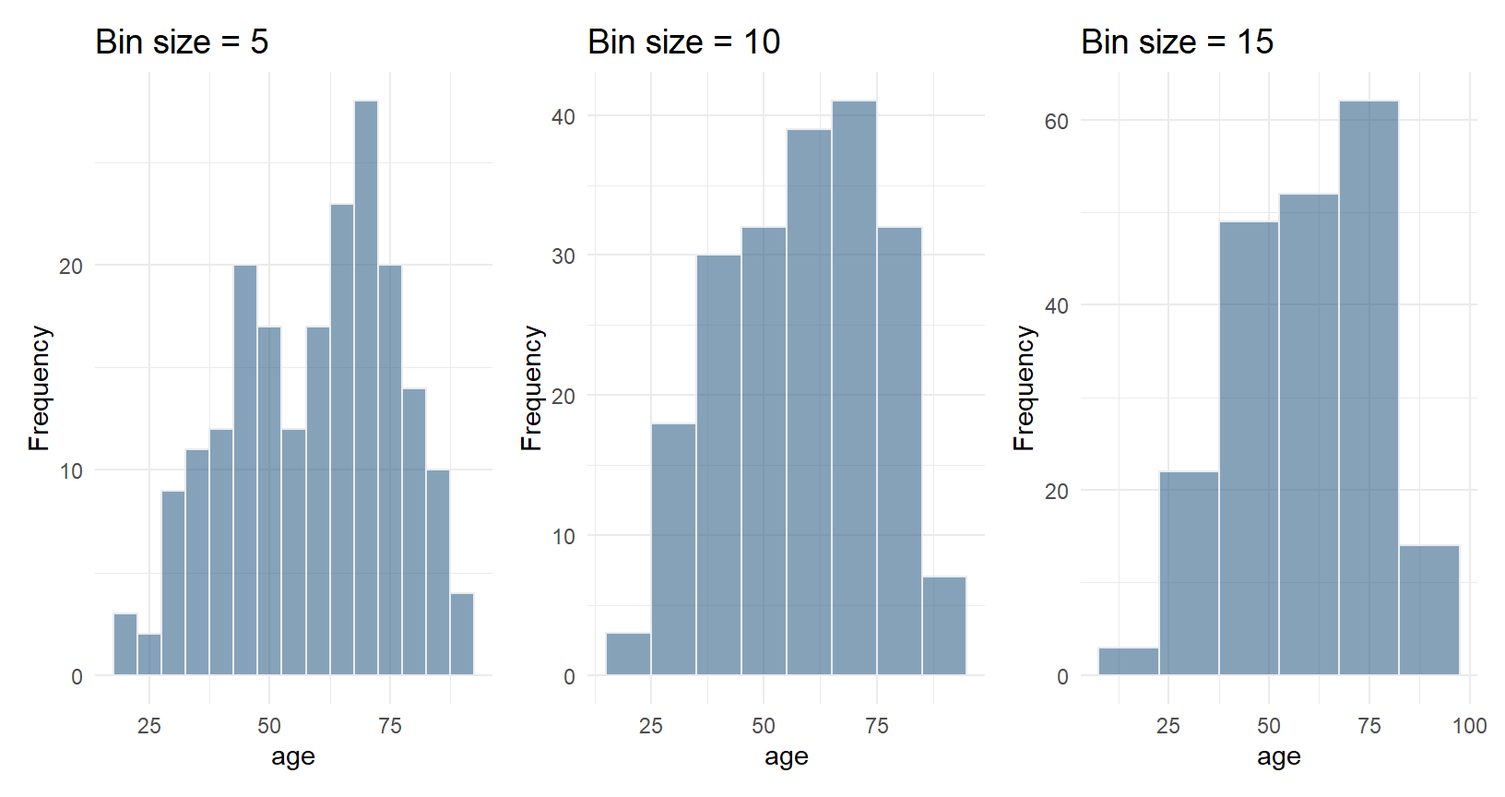
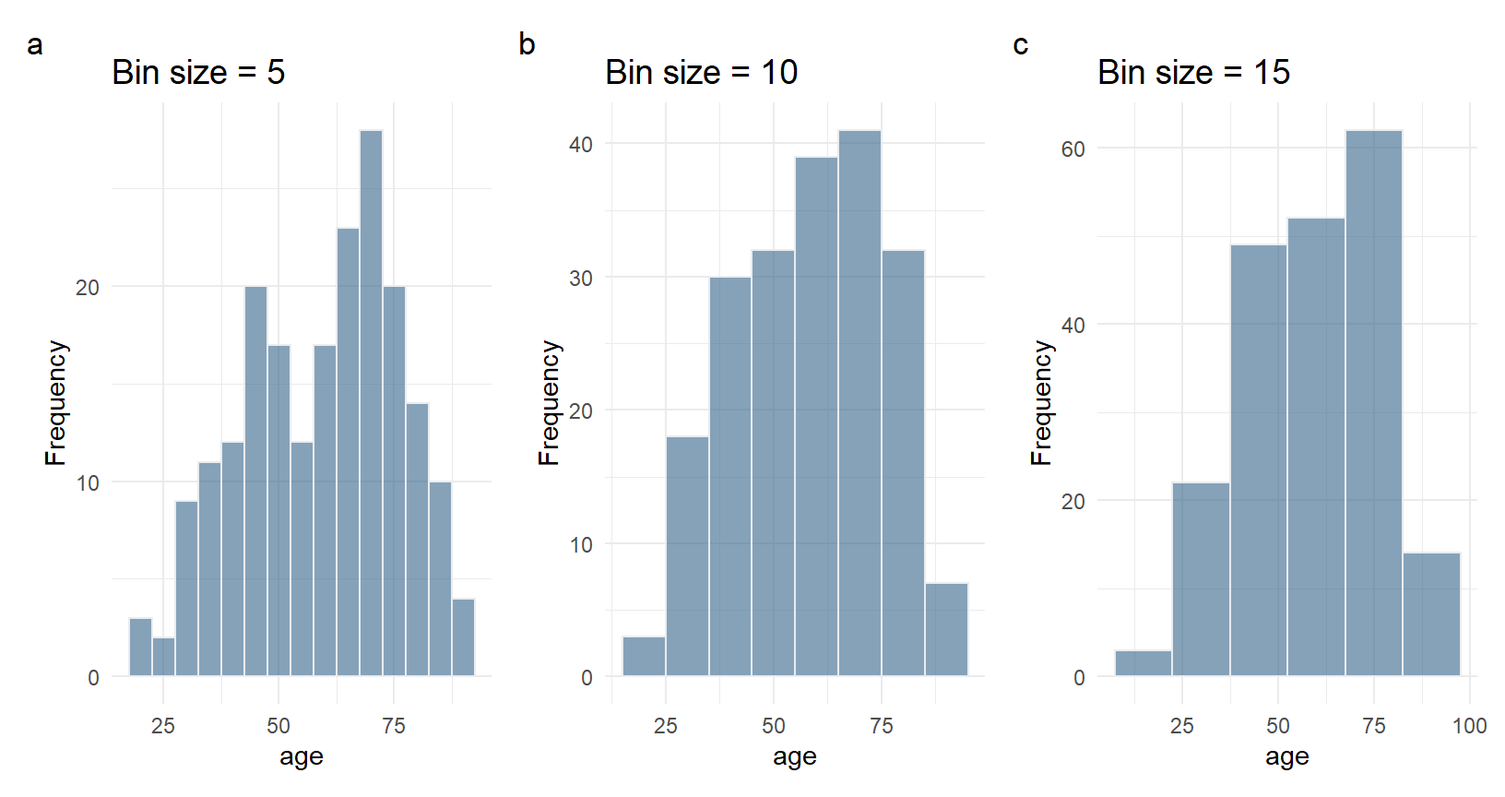
1.7 commit

diff --git a/_book/introduction.html b/_book/introduction.html
@@ -351,8 +351,8 @@ I --&gt; K[New Knowledge] &amp; Dec[Decision<br>Making]
 <div class="cell">
 <div class="cell-output-display">
 
-<div id="htmlwidget-470c648a474a1db97bb0" style="width:100%;height:auto;" class="datatables html-widget"></div>
-<script type="application/json" data-for="htmlwidget-470c648a474a1db97bb0">{"x":{"filter":"none","vertical":false,"extensions":["Scroller"],"data":[["1","2","3","4","5","6","7","8","9","10","11","12","13","14","15","16","17","18","19","20","21","22","23","24","25","26","27","28","29","30","31","32","33","34","35","36","37","38","39","40","41","42","43","44","45","46","47","48","49","50","51","52","53","54","55","56","57","58","59","60","61","62","63","64","65","66","67","68","69","70","71","72","73","74","75","76","77","78","79","80","81","82","83","84","85","86","87","88","89","90","91","92","93","94","95","96","97","98","99","100","101","102","103","104","105","106","107","108","109","110","111","112","113","114","115","116","117","118","119","120","121","122","123","124","125","126","127","128","129","130","131","132","133","134","135","136","137","138","139","140","141","142","143","144","145","146","147","148","149","150","151","152","153","154","155","156","157","158","159","160","161","162","163","164","165","166","167","168","169","170","171","172","173","174","175","176","177","178","179","180","181","182","183","184","185","186","187","188","189","190","191","192","193","194","195","196","197","198","199","200","201","202"],[1,2,3,4,5,6,7,8,9,10,11,12,13,14,15,16,17,18,19,20,21,22,23,24,25,26,27,28,29,30,31,32,33,34,35,36,37,38,39,40,41,42,43,44,45,46,47,48,49,50,51,52,53,54,55,56,57,58,59,60,61,62,63,64,65,66,67,68,69,70,71,72,73,74,75,76,77,78,79,80,81,82,83,84,85,86,87,88,89,90,91,92,93,94,95,96,97,98,99,100,101,102,103,104,105,106,107,108,109,110,111,112,113,114,115,116,117,118,119,120,121,122,123,124,125,126,127,128,129,130,131,132,133,134,135,136,137,138,139,140,141,142,143,144,145,146,147,148,149,150,151,152,153,154,155,156,157,158,159,160,161,162,163,164,165,166,167,168,169,170,171,172,173,174,175,176,177,178,179,180,181,182,183,184,185,186,187,188,189,190,191,192,193,194,195,196,197,198,199,200,201,202],["corn plaster","corn plaster","corn plaster","corn plaster","scalpel","scalpel","scalpel","scalpel","scalpel","scalpel","scalpel","scalpel","scalpel","scalpel","scalpel","scalpel","corn plaster","scalpel","scalpel","scalpel","corn plaster","scalpel","scalpel","scalpel","scalpel","scalpel","corn plaster","corn plaster","scalpel","scalpel","scalpel","scalpel","corn plaster","corn plaster","scalpel","corn plaster","corn plaster","scalpel","corn plaster","scalpel","corn plaster","corn plaster","scalpel","corn plaster","scalpel","scalpel","corn plaster","corn plaster","scalpel","corn plaster","scalpel","scalpel","corn plaster","corn plaster","scalpel","scalpel","corn plaster","scalpel","corn plaster","scalpel","corn plaster","scalpel","scalpel","scalpel","scalpel","corn plaster","scalpel","scalpel","corn plaster","corn plaster","scalpel","corn plaster","corn plaster","corn plaster","corn plaster","scalpel","scalpel","corn plaster","scalpel","scalpel","scalpel","scalpel","scalpel","scalpel","scalpel","corn plaster","corn plaster","corn plaster","scalpel","scalpel","corn plaster","scalpel","corn plaster","scalpel","scalpel","corn plaster","corn plaster","scalpel","corn plaster","corn plaster","scalpel","corn plaster","corn plaster","scalpel","corn plaster","scalpel","scalpel","corn plaster","scalpel","scalpel","corn plaster","scalpel","corn plaster","corn plaster","corn plaster","corn plaster","corn plaster","corn plaster","scalpel","corn plaster","scalpel","corn plaster","corn plaster","scalpel","corn plaster","corn plaster","scalpel","scalpel","corn plaster","corn plaster","corn plaster","corn plaster","corn plaster","scalpel","corn plaster","corn plaster","corn plaster","scalpel","corn plaster","corn plaster","corn plaster","scalpel","corn plaster","scalpel","corn plaster","scalpel","scalpel","corn plaster","corn plaster","corn plaster","corn plaster","scalpel","scalpel","scalpel","scalpel","scalpel","scalpel","scalpel","corn plaster","scalpel","scalpel","scalpel","corn plaster","scalpel","corn plaster","scalpel","corn plaster","corn plaster","scalpel","corn plaster","corn plaster","corn plaster","corn plaster","corn plaster","scalpel","scalpel","corn plaster","corn plaster","corn plaster","corn plaster","corn plaster","scalpel","scalpel","corn plaster","corn plaster","corn plaster","corn plaster","scalpel","scalpel","scalpel","corn plaster","scalpel","corn plaster","corn plaster","scalpel","corn plaster","scalpel","corn plaster","corn plaster","corn plaster","corn plaster","scalpel"],["Central","Huddersfield","Central","Central","Central","Central","Central","Central","Central","Central","Central","Central","Central","Central","Central","Central","Central","Central","Central","Central","Central","Central","Central","Central","Central","Central","Central","Central","Central","Central","Central","Central","Central","Central","Central","Central","Central","Central","Central","Central","Central","Central","Central","Central","Central","Central","Central","Central","Central","Central","Central","Central","Central","Central","Central","Central","Central","Central","Central","Central","Central","Central","Central","Central","First Park","First Park","First Park","First Park","First Park","First Park","First Park","First Park","First Park","First Park","Manor","Manor","Manor","Manor","Manor","Manor","Manor","Manor","Manor","Manor","Manor","Manor","Manor","Manor","Manor","Manor","Manor","Manor","Manor","Jordanthorpe","Jordanthorpe","Jordanthorpe","Jordanthorpe","Jordanthorpe","Jordanthorpe","Jordanthorpe","Jordanthorpe","Jordanthorpe","Jordanthorpe","Jordanthorpe","Darnall","Limbrick","Limbrick","Limbrick","Huddersfield","Huddersfield","Huddersfield","Huddersfield","Huddersfield","Huddersfield","Huddersfield","Central","Central","Central","Central","Central","Central","Central","Central","Central","Central","Central","Central","Central","Central","Central","Central","Central","Central","Central","Central","Central","Central","Central","Central","Central","First Park","Manor","Manor","Manor","Manor","Manor","Manor","Manor","Manor","Manor","Jordanthorpe","Jordanthorpe","Jordanthorpe","Jordanthorpe","Jordanthorpe","Jordanthorpe","Jordanthorpe","Jordanthorpe","Darnall","Limbrick","Limbrick","Limbrick","Limbrick","Limbrick","Darnall","Huddersfield","Central","Central","Central","Central","Central","Central","Central","Central","Central","Central","Central","Central","Central","Central","Central","Central","Central","Central","Central","Central","Central","Manor","Manor","Manor","Manor","Manor","Central","Jordanthorpe","Jordanthorpe","Jordanthorpe","Jordanthorpe","Jordanthorpe","Darnall","Limbrick","Darnall","Darnall"],["female","female","male","female","female","female","female","male","female","male","female","male","male","female","female","male","female","male","female","male","female","male","male","female","male","female","male","female","male","female","male","female","male","female","female","male","male","female","female","female","female","male","male","female","female","male","male","male","female","male","male","male","female","female","female","female","female","female","female","female","female","male","male","female","female","male","female","female","male","male","male","female","female","female","female","female","male","male","female","female","female","male","female","male","female","male","male","female","female","female","male","female","female","male","female","female","male","male","female","female","female","male","female","male","male","female","female","male","male","female","male","female","male","male","female","male","male","male","male","female","male","male","female","male","female","female","male","female","female","female","female","male","male","male","female","male","female","female","female","female","female","female","female","female","male","male","female","female","female","female","female","male","male","male","female","female","male","female","female","female","male","female","female","female","female","female","male","male","female","female","female","male","male","female","female","female","female","female","female","male","female","female","male","male","female","male","female","female","female","male","female","male","female","female","female","female","male","male","male","male","male","male"],[1,null,3,2,1,1,1,1,1,2,1,1,3,1,3,3,3,1,2,null,2,1,3,3,2,3,1,1,2,3,1,1,3,3,3,1,2,3,2,3,2,3,3,1,3,3,1,1,2,2,1,1,3,2,3,1,3,1,3,1,1,3,3,1,3,2,2,1,1,3,1,3,3,1,3,1,2,1,1,3,1,3,1,1,1,null,2,3,1,2,2,1,1,3,1,3,null,3,1,1,2,2,3,1,2,3,3,3,2,1,1,3,1,1,2,3,1,1,3,1,3,1,3,2,1,3,null,2,3,1,1,2,1,3,3,1,3,1,3,3,3,3,1,3,3,3,3,2,1,2,1,3,2,3,1,1,3,1,1,3,2,3,3,3,2,1,3,3,2,1,3,2,3,2,3,3,3,2,3,3,2,3,2,1,1,3,2,3,3,1,3,1,3,3,1,1,1,3,3,3,3,3],[1,null,1,1,1,1,1,1,1,1,1,1,1,1,1,1,1,1,1,1,1,1,1,1,1,1,1,1,1,1,1,1,1,1,1,1,1,1,1,1,1,1,1,1,1,1,1,1,1,1,1,1,1,1,1,1,1,1,1,1,1,1,1,1,1,1,1,1,1,1,1,1,1,1,1,1,1,1,1,1,1,1,1,1,1,1,1,1,1,1,1,1,1,1,1,1,1,1,1,1,1,1,1,1,1,1,1,1,1,1,1,1,1,1,1,2,2,2,2,2,2,2,2,2,2,2,2,2,2,2,2,2,2,2,2,2,2,2,2,2,2,2,2,2,2,2,2,2,2,2,2,2,2,2,2,2,2,2,2,2,2,2,2,2,2,2,3,3,3,3,3,3,3,3,3,3,3,3,3,3,3,3,3,3,3,3,3,3,3,3,3,3,3,3,3,3,3,3,3,3,3,3],[77,32,39,76,69,79,70,64,73,65,33,67,36,77,30,19,66,43,79,50,44,59,63,76,77,60,55,70,80,40,50,78,43,70,44,83,69,66,65,32,90,40,36,69,37,56,53,49,42,74,76,60,69,34,38,49,57,70,45,65,36,42,64,52,65,70,45,51,41,60,65,55,60,61,57,88,69,67,89,81,76,86,69,45,42,20,88,29,84,73,27,63,64,70,83,52,31,60,58,61,77,50,73,53,84,52,68,63,54,27,64,73,46,76,61,62,63,65,65,35,78,71,55,61,71,44,39,78,73,33,61,79,72,29,61,45,35,45,47,32,46,34,86,31,59,55,52,71,70,78,80,32,69,63,52,80,73,86,65,19,74,70,44,46,85,54,40,69,85,49,49,68,44,71,47,40,68,52,42,60,76,49,84,54,70,45,68,65,33,79,68,82,75,49,76,82,68,45,47,49,62,63],[1.100000024,null,5.300000191,7.599999905,1.399999976,4.599999905,9,4.599999905,2.400000095,3.299999952,7,0.699999988,2,1,4,6,1,7.599999905,7.800000191,1.5,3.599999905,0.100000001,5.400000095,8.800000191,8.5,5,1,8.800000191,3.299999952,6.199999809,5,2.5,1.600000024,6,9.800000191,9.5,2,5.400000095,2,7.5,4.5,2.400000095,5,3.200000048,8.5,6,0.400000006,3.299999952,1.399999976,1.5,0,0.100000001,1,5,3.700000048,5.400000095,1.899999976,5.400000095,7.400000095,6.699999809,9.399999619,7,1,4,8,7.900000095,3,6.199999809,0.5,8.5,0,7.599999905,2.5,3.400000095,6.5,2.700000048,8.600000381,8.699999809,4.099999905,7,0.600000024,1.200000048,4.900000095,10,3.799999952,2.400000095,7.400000095,4.5,0,9.100000381,10,4.5,6.599999905,2.400000095,9.5,5,3.400000095,5.199999809,9.600000381,6,4.699999809,7.300000191,7.5,0,4.5,1.200000048,7.199999809,3,0,0,3.099999905,8.899999619,2.5,0.400000006,6.199999809,7.300000191,4.800000191,7.5,2.5,4,2.5,2,5.599999905,6.599999905,5,8,6.599999905,5.199999809,4.599999905,0,4.900000095,4.300000191,4,8.399999619,8,8.5,9.399999619,7.800000191,9.300000191,10,9.899999619,8.899999619,8,9.100000381,8.199999809,5,4.599999905,4.699999809,6.5,8,6,3.099999905,5.699999809,6.699999809,6.800000191,1.5,3,7.5,7,5.5,0,4.699999809,7.199999809,5,3.299999952,1,2.5,9.100000381,4.699999809,6.599999905,6.199999809,3.599999905,7,6,10,9.199999809,10,2,10,6.800000191,2.5,10,7.300000191,2.799999952,4.900000095,9,8.5,6.099999905,8.600000381,6.199999809,8.399999619,8,10,10,1,10,1,9.399999619,8.800000191,9.699999809,6.800000191,4.300000191],[0.796000004,null,0.620000005,0.726999998,0.690999985,1,0.796000004,0.796000004,0.726999998,1,0.796000004,1,1,0.656000018,0.796000004,0.726999998,0.195000023,0.18900004,0.195000023,0.796000004,0.690999985,1,0.620000005,0.264000058,0.726999998,0.796000004,1,0.75999999,0.81400001,0.726999998,0.796000004,0.796000004,0.796000004,0.726999998,0.195000023,0.087999992,0.84800005,0.850000024,1,0.620000005,0.726999998,0.690999985,-0.065999962,0.796000004,0.195000023,0.690999985,0.850000024,0.796000004,0.726999998,1,1,0.726999998,0.796000004,0.796000004,0.796000004,1,1,0.725000024,1,0.796000004,0.157000035,1,0.516000032,0.690999985,0.726999998,0.726999998,0.620000005,0.84800005,0.087999992,0.029999996,0.516000032,0.195000023,0.159000009,0.796000004,0.726999998,0.364000022,0.029999996,0.656000018,0.726999998,0.656000018,0.264000058,0.726999998,0.725000024,-0.040999986,0.690999985,0.796000004,0.620000005,0.796000004,0.84800005,0.725000024,1,0.796000004,1,0.726999998,0.796000004,0.656000018,0.796000004,0.087999992,1,0.690999985,0.656000018,0.087999992,0.796000004,1,0.81400001,0.725000024,-0.016000008,0.587000012,1,1,0.726999998,0.195000023,0.796000004,1,0.796000004,0.726999998,0.690999985,0.796000004,0.796000004,null,1,null,0.620000005,0.690999985,0.487000048,0.690999985,0.796000004,0.725000024,0.690999985,1,0.620000005,0.796000004,1,0.159000009,0.690999985,0.516000032,0.159000009,0.656000018,0.656000018,0.75999999,0.087999992,1,0.850000024,0.620000005,0.690999985,0.796000004,0.796000004,0.796000004,0.796000004,0.796000004,1,0.796000004,0.796000004,0.850000024,0.725000024,0.796000004,1,0.710000038,0.725000024,0.620000005,0.796000004,1,0.656000018,0.620000005,1,0.796000004,0.690999985,0.159000009,0.656000018,0.796000004,0.743000031,0.159000009,0.124000005,0.726999998,-0.077,0.159000009,0.087999992,1,0.087999992,0.796000004,0.796000004,1,0.087999992,0.796000004,1,0.195000023,0.75999999,0.690999985,0.690999985,0.796000004,0.087999992,0.75999999,-0.073999979,0.195000023,0.690999985,0.726999998,1,0.264000058,0.193000048,-0.077,0.690999985,0.850000024],[90,null,51,80,85,45,75,50,98,95,95,85,95,90,88,92,90,55,65,100,65,50,74,95,87,90,100,82,77,60,100,95,95,95,100,79,75,55,99,80,50,100,75,65,85,84,89,75,91,62,98,55,60,90,40,55,100,43,95,86,15,70,61,60,75,50,60,65,75,73,50,45,60,15,65,50,39,40,56,40,null,95,95,0,85,100,90,70,98,88,49,85,98,80,100,85,80,54,99,90,55,60,80,80,80,60,40,75,75,80,71,65,50,85,88,70,76,95,89,95,79,94,80,82,40,80,90,70,96,90,70,95,70,95,89,68,85,50,85,100,50,90,50,61,80,80,90,60,70,80,100,50,90,90,50,85,80,81,92,60,88,75,53,66,79,71,80,90,70,70,85,80,60,83,0,null,85,85,35,80,79,80,51,100,80,65,60,70,95,75,50,70,50,50,60,70,100,100,50,30,44,90],[6,null,6,4,4,2,3,4,1,4,4,3,4,3,2,4,6,4,4,4,4,4,4,6,2,4,4,6,4,4,2,4,6,3,4,6,1,6,4,5,2,4,4,1,4,4,4,3,4,3,4,4,4,3,4,4,2,2,3,2,4,4,4,4,4,1,4,3,4,4,6,4,2,4,4,2,4,6,4,4,6,4,2,4,4,2,4,4,2,4,4,6,5,6,2,2,2,4,3,1,4,2,4,4,1,3,1,4,4,6,6,4,1,4,4,3,3,4,4,4,4,4,4,4,2,4,4,1,4,2,4,4,6,4,4,5,4,4,1,4,4,4,2,4,4,4,4,1,2,4,6,4,2,4,4,4,4,1,4,4,5,4,4,4,4,6,4,4,1,2,4,4,6,4,4,4,4,4,4,4,2,4,4,2,3,2,4,3,4,4,4,5,5,3,4,2,6,4,4,4,4,4],[null,null,5,4,2,3,5,10,5,4,2,2,3,2,5,5,6,4,3,4,3,10,4,1,3,7,6,2,3,2,2,4,2,4,3,3,2,2,4,5,3,3,5,5,4,2,3,4,4,4,3,3,4,2,2,3,2,2,2,2,5,3,4,4,8,3,5,2,3,5,3,5,4,2,5,6,2,5,5,5,2,4,3,4,5,5,4,4,2,3,3,1,2,3,3,8,1,4,2,3,2,5,7,4,6,2,3,2,2,2,4,5,2,3,6,5,6,5,6,3,3,3,5,3,6,2,3,3,3,2,3,2,4,4,4,4,3,3,3,4,2,4,3,5,3,5,5,3,5,1,3,5,8,5,3,5,1,3,4,9,4,4,4,8,10,1,5,4,4,10,4,3,3,5,4,4,5,3,4,2,3,3,3,7,3,5,2,4,5,3,5,5,4,6,2,2,2,4,6,3,5,8],[2,null,5,0,1,2,0,10,0,4,2,0,4,1,4,5,0,4,3,4,1,10,2,1,3,6,0,2,3,2,2,2,0,4,3,2,0,2,0,3,null,1,null,0,4,2,null,2,0,0,0,0,2,null,0,3,0,null,2,1,4,null,3,4,8,1,1,0,0,2,3,3,0,0,4,6,0,4,null,3,2,3,0,4,5,0,2,4,1,2,2,0,1,2,3,4,0,0,0,null,0,2,0,1,3,0,3,1,null,null,4,5,0,null,5,3,2,2,6,0,0,0,4,0,null,2,3,3,2,null,0,0,2,null,2,1,1,2,2,2,2,4,2,3,1,6,null,0,0,2,1,0,4,4,1,5,1,3,2,null,3,2,3,5,0,null,0,3,3,3,4,3,0,3,3,3,0,3,3,0,0,1,2,null,0,null,1,4,5,0,2,0,5,5,1,1,0,4,5,3,4,10],[null,null,0,-4,-1,-1,-5,0,-5,0,0,-2,1,-1,-1,0,-6,0,0,0,-2,0,-2,0,0,-1,-6,0,0,0,0,-2,-2,0,0,-1,-2,0,-4,-2,null,-2,null,-5,0,0,null,-2,-4,-4,-3,-3,-2,null,-2,0,-2,null,0,-1,-1,null,-1,0,0,-2,-4,-2,-3,-3,0,-2,-4,-2,-1,0,-2,-1,null,-2,0,-1,-3,0,0,-5,-2,0,-1,-1,-1,-1,-1,-1,0,-4,-1,-4,-2,null,-2,-3,-7,-3,-3,-2,0,-1,null,null,0,0,-2,null,-1,-2,-4,-3,0,-3,-3,-3,-1,-3,null,0,0,0,-1,null,-3,-2,-2,null,-2,-3,-2,-1,-1,-2,0,0,-1,-2,-2,1,null,-3,-5,1,-2,-5,-4,-1,-2,0,0,0,-2,null,-1,-2,-1,-3,-10,null,-5,-1,-1,-7,0,0,-3,-2,-1,-1,-5,0,-1,-2,-3,-2,-1,null,-3,null,-1,0,0,-3,-3,-5,1,-1,-1,-1,-2,0,-1,0,-1,2],[0,null,0,1,0,0,1,0,1,0,0,1,0,0,0,0,1,0,0,0,0,0,0,0,0,0,1,0,0,0,0,0,1,0,0,0,1,0,1,0,null,0,null,1,0,0,null,0,1,1,1,1,0,null,1,0,1,null,0,0,0,null,0,0,0,0,0,1,1,0,0,0,1,1,0,0,1,0,null,0,0,0,1,0,0,1,0,0,0,0,0,1,0,0,0,0,1,1,1,null,1,0,1,0,0,1,0,0,null,null,0,0,1,null,0,0,0,0,0,1,1,1,0,1,null,0,0,0,0,null,1,1,0,null,0,0,0,0,0,0,0,0,0,0,0,0,null,1,1,0,0,1,0,0,0,0,0,0,0,null,0,0,0,0,1,null,1,0,0,0,0,0,1,0,0,0,1,0,0,1,1,0,0,null,1,null,0,0,0,1,0,1,0,0,0,0,1,0,0,0,0,0],[2,null,5,0,1,2,0,10,0,4,2,0,4,1,4,5,0,4,3,4,1,10,2,1,3,6,0,2,3,2,2,2,0,4,3,2,0,2,0,3,null,1,null,0,4,2,2,2,0,0,0,0,2,null,0,3,0,null,2,1,4,null,3,4,8,1,1,0,0,2,3,3,0,0,4,6,0,4,null,3,2,3,0,4,5,0,2,4,1,2,2,0,1,2,3,4,0,0,0,null,0,2,0,1,3,0,3,1,1,3,4,5,0,0,5,3,2,2,6,0,0,0,4,0,0,2,3,3,2,null,0,0,2,null,2,1,1,2,2,2,2,4,2,3,1,6,null,0,0,2,1,0,4,4,1,5,1,3,2,7,3,2,3,5,0,null,0,3,3,3,4,3,0,3,3,3,0,3,3,0,0,1,2,3,0,null,1,4,5,0,2,0,5,5,1,1,0,4,5,3,4,10],[null,null,0,-4,-1,-1,-5,0,-5,0,0,-2,1,-1,-1,0,-6,0,0,0,-2,0,-2,0,0,-1,-6,0,0,0,0,-2,-2,0,0,-1,-2,0,-4,-2,null,-2,null,-5,0,0,-1,-2,-4,-4,-3,-3,-2,null,-2,0,-2,null,0,-1,-1,null,-1,0,0,-2,-4,-2,-3,-3,0,-2,-4,-2,-1,0,-2,-1,null,-2,0,-1,-3,0,0,-5,-2,0,-1,-1,-1,-1,-1,-1,0,-4,-1,-4,-2,null,-2,-3,-7,-3,-3,-2,0,-1,-1,1,0,0,-2,-3,-1,-2,-4,-3,0,-3,-3,-3,-1,-3,-6,0,0,0,-1,null,-3,-2,-2,null,-2,-3,-2,-1,-1,-2,0,0,-1,-2,-2,1,null,-3,-5,1,-2,-5,-4,-1,-2,0,0,0,-2,-2,-1,-2,-1,-3,-10,null,-5,-1,-1,-7,0,0,-3,-2,-1,-1,-5,0,-1,-2,-3,-2,-1,-4,-3,null,-1,0,0,-3,-3,-5,1,-1,-1,-1,-2,0,-1,0,-1,2],[0,null,0,1,1,1,1,0,1,0,0,1,0,1,1,0,1,0,0,0,1,0,1,0,0,1,1,0,0,0,0,1,1,0,0,1,1,0,1,1,null,1,null,1,0,0,1,1,1,1,1,1,1,null,1,0,1,null,0,1,1,null,1,0,0,1,1,1,1,1,0,1,1,1,1,0,1,1,null,1,0,1,1,0,0,1,1,0,1,1,1,1,1,1,0,1,1,1,1,null,1,1,1,1,1,1,0,1,1,0,0,0,1,1,1,1,1,1,0,1,1,1,1,1,1,0,0,0,1,null,1,1,1,null,1,1,1,1,1,1,0,0,1,1,1,0,null,1,1,0,1,1,1,1,1,0,0,0,1,1,1,1,1,1,1,null,1,1,1,1,0,0,1,1,1,1,1,0,1,1,1,1,1,1,1,null,1,0,0,1,1,1,0,1,1,1,1,0,1,0,1,0],[1,0,1,1,1,1,1,1,1,1,1,1,1,1,1,1,1,1,1,1,1,1,1,1,1,1,1,1,1,1,1,1,1,1,1,1,1,1,1,1,0,1,0,1,1,1,1,1,1,1,1,1,1,0,1,1,1,0,1,1,1,0,1,1,1,1,1,1,1,1,1,1,1,1,1,1,1,1,0,1,1,1,1,1,1,1,1,1,1,1,1,1,1,1,1,1,1,1,1,0,1,1,1,1,1,1,1,1,1,1,1,1,1,1,1,1,1,1,1,1,1,1,1,1,1,1,1,1,1,0,1,1,1,0,1,1,1,1,1,1,1,1,1,1,1,1,0,1,1,1,1,1,1,1,1,1,1,1,1,1,1,1,1,1,1,0,1,1,1,1,1,1,1,1,1,1,1,1,1,1,1,1,1,1,1,0,1,1,1,1,1,1,1,1,1,1,1,1,1,1,1,1],[0,null,0,1,0,0,1,0,1,0,0,1,0,0,0,0,1,0,0,0,0,0,0,0,0,0,1,0,0,0,0,0,1,0,0,0,1,0,1,0,null,0,null,1,0,0,0,0,1,1,1,1,0,null,1,0,1,null,0,0,0,null,0,0,0,0,0,1,1,0,0,0,1,1,0,0,1,0,null,0,0,0,1,0,0,1,0,0,0,0,0,1,0,0,0,0,1,1,1,null,1,0,1,0,0,1,0,0,0,0,0,0,1,1,0,0,0,0,0,1,1,1,0,1,1,0,0,0,0,null,1,1,0,null,0,0,0,0,0,0,0,0,0,0,0,0,null,1,1,0,0,1,0,0,0,0,0,0,0,0,0,0,0,0,1,null,1,0,0,0,0,0,1,0,0,0,1,0,0,1,1,0,0,0,1,null,0,0,0,1,0,1,0,0,0,0,1,0,0,0,0,0]],"container":"<table class=\"display\">\n  <thead>\n    <tr>\n      <th> <\/th>\n      <th>id<\/th>\n      <th>group<\/th>\n      <th>center<\/th>\n      <th>gender<\/th>\n      <th>smoking_history<\/th>\n      <th>no_of_corns<\/th>\n      <th>age<\/th>\n      <th>pain_baseline<\/th>\n      <th>eq5d_baseline<\/th>\n      <th>eq5d_VAS_baseline<\/th>\n      <th>index_corn_site<\/th>\n      <th>cornsize_base<\/th>\n      <th>cornsize_3<\/th>\n      <th>cornsize_change<\/th>\n      <th>cornresolved<\/th>\n      <th>cornsize_imp3<\/th>\n      <th>cornsize_change_imp<\/th>\n      <th>healed<\/th>\n      <th>healedknown<\/th>\n      <th>complete_healed<\/th>\n    <\/tr>\n  <\/thead>\n<\/table>","options":{"deferRender":false,"dom":"t","columnDefs":[{"className":"dt-center","targets":5},{"className":"dt-right","targets":[1,6,7,8,9,10,11,12,13,14,15,16,17,18,19,20]},{"orderable":false,"targets":0}],"scrollY":202,"scroller":true,"scrollX":true,"pageLength":5,"order":[],"autoWidth":false,"orderClasses":false,"lengthMenu":[5,10,25,50,100]}},"evals":[],"jsHooks":[]}</script>
+<div id="htmlwidget-b87085f6906b84404f02" style="width:100%;height:auto;" class="datatables html-widget"></div>
+<script type="application/json" data-for="htmlwidget-b87085f6906b84404f02">{"x":{"filter":"none","vertical":false,"extensions":["Scroller"],"data":[["1","2","3","4","5","6","7","8","9","10","11","12","13","14","15","16","17","18","19","20","21","22","23","24","25","26","27","28","29","30","31","32","33","34","35","36","37","38","39","40","41","42","43","44","45","46","47","48","49","50","51","52","53","54","55","56","57","58","59","60","61","62","63","64","65","66","67","68","69","70","71","72","73","74","75","76","77","78","79","80","81","82","83","84","85","86","87","88","89","90","91","92","93","94","95","96","97","98","99","100","101","102","103","104","105","106","107","108","109","110","111","112","113","114","115","116","117","118","119","120","121","122","123","124","125","126","127","128","129","130","131","132","133","134","135","136","137","138","139","140","141","142","143","144","145","146","147","148","149","150","151","152","153","154","155","156","157","158","159","160","161","162","163","164","165","166","167","168","169","170","171","172","173","174","175","176","177","178","179","180","181","182","183","184","185","186","187","188","189","190","191","192","193","194","195","196","197","198","199","200","201","202"],[1,2,3,4,5,6,7,8,9,10,11,12,13,14,15,16,17,18,19,20,21,22,23,24,25,26,27,28,29,30,31,32,33,34,35,36,37,38,39,40,41,42,43,44,45,46,47,48,49,50,51,52,53,54,55,56,57,58,59,60,61,62,63,64,65,66,67,68,69,70,71,72,73,74,75,76,77,78,79,80,81,82,83,84,85,86,87,88,89,90,91,92,93,94,95,96,97,98,99,100,101,102,103,104,105,106,107,108,109,110,111,112,113,114,115,116,117,118,119,120,121,122,123,124,125,126,127,128,129,130,131,132,133,134,135,136,137,138,139,140,141,142,143,144,145,146,147,148,149,150,151,152,153,154,155,156,157,158,159,160,161,162,163,164,165,166,167,168,169,170,171,172,173,174,175,176,177,178,179,180,181,182,183,184,185,186,187,188,189,190,191,192,193,194,195,196,197,198,199,200,201,202],["corn plaster","corn plaster","corn plaster","corn plaster","scalpel","scalpel","scalpel","scalpel","scalpel","scalpel","scalpel","scalpel","scalpel","scalpel","scalpel","scalpel","corn plaster","scalpel","scalpel","scalpel","corn plaster","scalpel","scalpel","scalpel","scalpel","scalpel","corn plaster","corn plaster","scalpel","scalpel","scalpel","scalpel","corn plaster","corn plaster","scalpel","corn plaster","corn plaster","scalpel","corn plaster","scalpel","corn plaster","corn plaster","scalpel","corn plaster","scalpel","scalpel","corn plaster","corn plaster","scalpel","corn plaster","scalpel","scalpel","corn plaster","corn plaster","scalpel","scalpel","corn plaster","scalpel","corn plaster","scalpel","corn plaster","scalpel","scalpel","scalpel","scalpel","corn plaster","scalpel","scalpel","corn plaster","corn plaster","scalpel","corn plaster","corn plaster","corn plaster","corn plaster","scalpel","scalpel","corn plaster","scalpel","scalpel","scalpel","scalpel","scalpel","scalpel","scalpel","corn plaster","corn plaster","corn plaster","scalpel","scalpel","corn plaster","scalpel","corn plaster","scalpel","scalpel","corn plaster","corn plaster","scalpel","corn plaster","corn plaster","scalpel","corn plaster","corn plaster","scalpel","corn plaster","scalpel","scalpel","corn plaster","scalpel","scalpel","corn plaster","scalpel","corn plaster","corn plaster","corn plaster","corn plaster","corn plaster","corn plaster","scalpel","corn plaster","scalpel","corn plaster","corn plaster","scalpel","corn plaster","corn plaster","scalpel","scalpel","corn plaster","corn plaster","corn plaster","corn plaster","corn plaster","scalpel","corn plaster","corn plaster","corn plaster","scalpel","corn plaster","corn plaster","corn plaster","scalpel","corn plaster","scalpel","corn plaster","scalpel","scalpel","corn plaster","corn plaster","corn plaster","corn plaster","scalpel","scalpel","scalpel","scalpel","scalpel","scalpel","scalpel","corn plaster","scalpel","scalpel","scalpel","corn plaster","scalpel","corn plaster","scalpel","corn plaster","corn plaster","scalpel","corn plaster","corn plaster","corn plaster","corn plaster","corn plaster","scalpel","scalpel","corn plaster","corn plaster","corn plaster","corn plaster","corn plaster","scalpel","scalpel","corn plaster","corn plaster","corn plaster","corn plaster","scalpel","scalpel","scalpel","corn plaster","scalpel","corn plaster","corn plaster","scalpel","corn plaster","scalpel","corn plaster","corn plaster","corn plaster","corn plaster","scalpel"],["Central","Huddersfield","Central","Central","Central","Central","Central","Central","Central","Central","Central","Central","Central","Central","Central","Central","Central","Central","Central","Central","Central","Central","Central","Central","Central","Central","Central","Central","Central","Central","Central","Central","Central","Central","Central","Central","Central","Central","Central","Central","Central","Central","Central","Central","Central","Central","Central","Central","Central","Central","Central","Central","Central","Central","Central","Central","Central","Central","Central","Central","Central","Central","Central","Central","First Park","First Park","First Park","First Park","First Park","First Park","First Park","First Park","First Park","First Park","Manor","Manor","Manor","Manor","Manor","Manor","Manor","Manor","Manor","Manor","Manor","Manor","Manor","Manor","Manor","Manor","Manor","Manor","Manor","Jordanthorpe","Jordanthorpe","Jordanthorpe","Jordanthorpe","Jordanthorpe","Jordanthorpe","Jordanthorpe","Jordanthorpe","Jordanthorpe","Jordanthorpe","Jordanthorpe","Darnall","Limbrick","Limbrick","Limbrick","Huddersfield","Huddersfield","Huddersfield","Huddersfield","Huddersfield","Huddersfield","Huddersfield","Central","Central","Central","Central","Central","Central","Central","Central","Central","Central","Central","Central","Central","Central","Central","Central","Central","Central","Central","Central","Central","Central","Central","Central","Central","First Park","Manor","Manor","Manor","Manor","Manor","Manor","Manor","Manor","Manor","Jordanthorpe","Jordanthorpe","Jordanthorpe","Jordanthorpe","Jordanthorpe","Jordanthorpe","Jordanthorpe","Jordanthorpe","Darnall","Limbrick","Limbrick","Limbrick","Limbrick","Limbrick","Darnall","Huddersfield","Central","Central","Central","Central","Central","Central","Central","Central","Central","Central","Central","Central","Central","Central","Central","Central","Central","Central","Central","Central","Central","Manor","Manor","Manor","Manor","Manor","Central","Jordanthorpe","Jordanthorpe","Jordanthorpe","Jordanthorpe","Jordanthorpe","Darnall","Limbrick","Darnall","Darnall"],["female","female","male","female","female","female","female","male","female","male","female","male","male","female","female","male","female","male","female","male","female","male","male","female","male","female","male","female","male","female","male","female","male","female","female","male","male","female","female","female","female","male","male","female","female","male","male","male","female","male","male","male","female","female","female","female","female","female","female","female","female","male","male","female","female","male","female","female","male","male","male","female","female","female","female","female","male","male","female","female","female","male","female","male","female","male","male","female","female","female","male","female","female","male","female","female","male","male","female","female","female","male","female","male","male","female","female","male","male","female","male","female","male","male","female","male","male","male","male","female","male","male","female","male","female","female","male","female","female","female","female","male","male","male","female","male","female","female","female","female","female","female","female","female","male","male","female","female","female","female","female","male","male","male","female","female","male","female","female","female","male","female","female","female","female","female","male","male","female","female","female","male","male","female","female","female","female","female","female","male","female","female","male","male","female","male","female","female","female","male","female","male","female","female","female","female","male","male","male","male","male","male"],[1,null,3,2,1,1,1,1,1,2,1,1,3,1,3,3,3,1,2,null,2,1,3,3,2,3,1,1,2,3,1,1,3,3,3,1,2,3,2,3,2,3,3,1,3,3,1,1,2,2,1,1,3,2,3,1,3,1,3,1,1,3,3,1,3,2,2,1,1,3,1,3,3,1,3,1,2,1,1,3,1,3,1,1,1,null,2,3,1,2,2,1,1,3,1,3,null,3,1,1,2,2,3,1,2,3,3,3,2,1,1,3,1,1,2,3,1,1,3,1,3,1,3,2,1,3,null,2,3,1,1,2,1,3,3,1,3,1,3,3,3,3,1,3,3,3,3,2,1,2,1,3,2,3,1,1,3,1,1,3,2,3,3,3,2,1,3,3,2,1,3,2,3,2,3,3,3,2,3,3,2,3,2,1,1,3,2,3,3,1,3,1,3,3,1,1,1,3,3,3,3,3],[1,null,1,1,1,1,1,1,1,1,1,1,1,1,1,1,1,1,1,1,1,1,1,1,1,1,1,1,1,1,1,1,1,1,1,1,1,1,1,1,1,1,1,1,1,1,1,1,1,1,1,1,1,1,1,1,1,1,1,1,1,1,1,1,1,1,1,1,1,1,1,1,1,1,1,1,1,1,1,1,1,1,1,1,1,1,1,1,1,1,1,1,1,1,1,1,1,1,1,1,1,1,1,1,1,1,1,1,1,1,1,1,1,1,1,2,2,2,2,2,2,2,2,2,2,2,2,2,2,2,2,2,2,2,2,2,2,2,2,2,2,2,2,2,2,2,2,2,2,2,2,2,2,2,2,2,2,2,2,2,2,2,2,2,2,2,3,3,3,3,3,3,3,3,3,3,3,3,3,3,3,3,3,3,3,3,3,3,3,3,3,3,3,3,3,3,3,3,3,3,3,3],[77,32,39,76,69,79,70,64,73,65,33,67,36,77,30,19,66,43,79,50,44,59,63,76,77,60,55,70,80,40,50,78,43,70,44,83,69,66,65,32,90,40,36,69,37,56,53,49,42,74,76,60,69,34,38,49,57,70,45,65,36,42,64,52,65,70,45,51,41,60,65,55,60,61,57,88,69,67,89,81,76,86,69,45,42,20,88,29,84,73,27,63,64,70,83,52,31,60,58,61,77,50,73,53,84,52,68,63,54,27,64,73,46,76,61,62,63,65,65,35,78,71,55,61,71,44,39,78,73,33,61,79,72,29,61,45,35,45,47,32,46,34,86,31,59,55,52,71,70,78,80,32,69,63,52,80,73,86,65,19,74,70,44,46,85,54,40,69,85,49,49,68,44,71,47,40,68,52,42,60,76,49,84,54,70,45,68,65,33,79,68,82,75,49,76,82,68,45,47,49,62,63],[1.100000024,null,5.300000191,7.599999905,1.399999976,4.599999905,9,4.599999905,2.400000095,3.299999952,7,0.699999988,2,1,4,6,1,7.599999905,7.800000191,1.5,3.599999905,0.100000001,5.400000095,8.800000191,8.5,5,1,8.800000191,3.299999952,6.199999809,5,2.5,1.600000024,6,9.800000191,9.5,2,5.400000095,2,7.5,4.5,2.400000095,5,3.200000048,8.5,6,0.400000006,3.299999952,1.399999976,1.5,0,0.100000001,1,5,3.700000048,5.400000095,1.899999976,5.400000095,7.400000095,6.699999809,9.399999619,7,1,4,8,7.900000095,3,6.199999809,0.5,8.5,0,7.599999905,2.5,3.400000095,6.5,2.700000048,8.600000381,8.699999809,4.099999905,7,0.600000024,1.200000048,4.900000095,10,3.799999952,2.400000095,7.400000095,4.5,0,9.100000381,10,4.5,6.599999905,2.400000095,9.5,5,3.400000095,5.199999809,9.600000381,6,4.699999809,7.300000191,7.5,0,4.5,1.200000048,7.199999809,3,0,0,3.099999905,8.899999619,2.5,0.400000006,6.199999809,7.300000191,4.800000191,7.5,2.5,4,2.5,2,5.599999905,6.599999905,5,8,6.599999905,5.199999809,4.599999905,0,4.900000095,4.300000191,4,8.399999619,8,8.5,9.399999619,7.800000191,9.300000191,10,9.899999619,8.899999619,8,9.100000381,8.199999809,5,4.599999905,4.699999809,6.5,8,6,3.099999905,5.699999809,6.699999809,6.800000191,1.5,3,7.5,7,5.5,0,4.699999809,7.199999809,5,3.299999952,1,2.5,9.100000381,4.699999809,6.599999905,6.199999809,3.599999905,7,6,10,9.199999809,10,2,10,6.800000191,2.5,10,7.300000191,2.799999952,4.900000095,9,8.5,6.099999905,8.600000381,6.199999809,8.399999619,8,10,10,1,10,1,9.399999619,8.800000191,9.699999809,6.800000191,4.300000191],[0.796000004,null,0.620000005,0.726999998,0.690999985,1,0.796000004,0.796000004,0.726999998,1,0.796000004,1,1,0.656000018,0.796000004,0.726999998,0.195000023,0.18900004,0.195000023,0.796000004,0.690999985,1,0.620000005,0.264000058,0.726999998,0.796000004,1,0.75999999,0.81400001,0.726999998,0.796000004,0.796000004,0.796000004,0.726999998,0.195000023,0.087999992,0.84800005,0.850000024,1,0.620000005,0.726999998,0.690999985,-0.065999962,0.796000004,0.195000023,0.690999985,0.850000024,0.796000004,0.726999998,1,1,0.726999998,0.796000004,0.796000004,0.796000004,1,1,0.725000024,1,0.796000004,0.157000035,1,0.516000032,0.690999985,0.726999998,0.726999998,0.620000005,0.84800005,0.087999992,0.029999996,0.516000032,0.195000023,0.159000009,0.796000004,0.726999998,0.364000022,0.029999996,0.656000018,0.726999998,0.656000018,0.264000058,0.726999998,0.725000024,-0.040999986,0.690999985,0.796000004,0.620000005,0.796000004,0.84800005,0.725000024,1,0.796000004,1,0.726999998,0.796000004,0.656000018,0.796000004,0.087999992,1,0.690999985,0.656000018,0.087999992,0.796000004,1,0.81400001,0.725000024,-0.016000008,0.587000012,1,1,0.726999998,0.195000023,0.796000004,1,0.796000004,0.726999998,0.690999985,0.796000004,0.796000004,null,1,null,0.620000005,0.690999985,0.487000048,0.690999985,0.796000004,0.725000024,0.690999985,1,0.620000005,0.796000004,1,0.159000009,0.690999985,0.516000032,0.159000009,0.656000018,0.656000018,0.75999999,0.087999992,1,0.850000024,0.620000005,0.690999985,0.796000004,0.796000004,0.796000004,0.796000004,0.796000004,1,0.796000004,0.796000004,0.850000024,0.725000024,0.796000004,1,0.710000038,0.725000024,0.620000005,0.796000004,1,0.656000018,0.620000005,1,0.796000004,0.690999985,0.159000009,0.656000018,0.796000004,0.743000031,0.159000009,0.124000005,0.726999998,-0.077,0.159000009,0.087999992,1,0.087999992,0.796000004,0.796000004,1,0.087999992,0.796000004,1,0.195000023,0.75999999,0.690999985,0.690999985,0.796000004,0.087999992,0.75999999,-0.073999979,0.195000023,0.690999985,0.726999998,1,0.264000058,0.193000048,-0.077,0.690999985,0.850000024],[90,null,51,80,85,45,75,50,98,95,95,85,95,90,88,92,90,55,65,100,65,50,74,95,87,90,100,82,77,60,100,95,95,95,100,79,75,55,99,80,50,100,75,65,85,84,89,75,91,62,98,55,60,90,40,55,100,43,95,86,15,70,61,60,75,50,60,65,75,73,50,45,60,15,65,50,39,40,56,40,null,95,95,0,85,100,90,70,98,88,49,85,98,80,100,85,80,54,99,90,55,60,80,80,80,60,40,75,75,80,71,65,50,85,88,70,76,95,89,95,79,94,80,82,40,80,90,70,96,90,70,95,70,95,89,68,85,50,85,100,50,90,50,61,80,80,90,60,70,80,100,50,90,90,50,85,80,81,92,60,88,75,53,66,79,71,80,90,70,70,85,80,60,83,0,null,85,85,35,80,79,80,51,100,80,65,60,70,95,75,50,70,50,50,60,70,100,100,50,30,44,90],[6,null,6,4,4,2,3,4,1,4,4,3,4,3,2,4,6,4,4,4,4,4,4,6,2,4,4,6,4,4,2,4,6,3,4,6,1,6,4,5,2,4,4,1,4,4,4,3,4,3,4,4,4,3,4,4,2,2,3,2,4,4,4,4,4,1,4,3,4,4,6,4,2,4,4,2,4,6,4,4,6,4,2,4,4,2,4,4,2,4,4,6,5,6,2,2,2,4,3,1,4,2,4,4,1,3,1,4,4,6,6,4,1,4,4,3,3,4,4,4,4,4,4,4,2,4,4,1,4,2,4,4,6,4,4,5,4,4,1,4,4,4,2,4,4,4,4,1,2,4,6,4,2,4,4,4,4,1,4,4,5,4,4,4,4,6,4,4,1,2,4,4,6,4,4,4,4,4,4,4,2,4,4,2,3,2,4,3,4,4,4,5,5,3,4,2,6,4,4,4,4,4],[null,null,5,4,2,3,5,10,5,4,2,2,3,2,5,5,6,4,3,4,3,10,4,1,3,7,6,2,3,2,2,4,2,4,3,3,2,2,4,5,3,3,5,5,4,2,3,4,4,4,3,3,4,2,2,3,2,2,2,2,5,3,4,4,8,3,5,2,3,5,3,5,4,2,5,6,2,5,5,5,2,4,3,4,5,5,4,4,2,3,3,1,2,3,3,8,1,4,2,3,2,5,7,4,6,2,3,2,2,2,4,5,2,3,6,5,6,5,6,3,3,3,5,3,6,2,3,3,3,2,3,2,4,4,4,4,3,3,3,4,2,4,3,5,3,5,5,3,5,1,3,5,8,5,3,5,1,3,4,9,4,4,4,8,10,1,5,4,4,10,4,3,3,5,4,4,5,3,4,2,3,3,3,7,3,5,2,4,5,3,5,5,4,6,2,2,2,4,6,3,5,8],[2,null,5,0,1,2,0,10,0,4,2,0,4,1,4,5,0,4,3,4,1,10,2,1,3,6,0,2,3,2,2,2,0,4,3,2,0,2,0,3,null,1,null,0,4,2,null,2,0,0,0,0,2,null,0,3,0,null,2,1,4,null,3,4,8,1,1,0,0,2,3,3,0,0,4,6,0,4,null,3,2,3,0,4,5,0,2,4,1,2,2,0,1,2,3,4,0,0,0,null,0,2,0,1,3,0,3,1,null,null,4,5,0,null,5,3,2,2,6,0,0,0,4,0,null,2,3,3,2,null,0,0,2,null,2,1,1,2,2,2,2,4,2,3,1,6,null,0,0,2,1,0,4,4,1,5,1,3,2,null,3,2,3,5,0,null,0,3,3,3,4,3,0,3,3,3,0,3,3,0,0,1,2,null,0,null,1,4,5,0,2,0,5,5,1,1,0,4,5,3,4,10],[null,null,0,-4,-1,-1,-5,0,-5,0,0,-2,1,-1,-1,0,-6,0,0,0,-2,0,-2,0,0,-1,-6,0,0,0,0,-2,-2,0,0,-1,-2,0,-4,-2,null,-2,null,-5,0,0,null,-2,-4,-4,-3,-3,-2,null,-2,0,-2,null,0,-1,-1,null,-1,0,0,-2,-4,-2,-3,-3,0,-2,-4,-2,-1,0,-2,-1,null,-2,0,-1,-3,0,0,-5,-2,0,-1,-1,-1,-1,-1,-1,0,-4,-1,-4,-2,null,-2,-3,-7,-3,-3,-2,0,-1,null,null,0,0,-2,null,-1,-2,-4,-3,0,-3,-3,-3,-1,-3,null,0,0,0,-1,null,-3,-2,-2,null,-2,-3,-2,-1,-1,-2,0,0,-1,-2,-2,1,null,-3,-5,1,-2,-5,-4,-1,-2,0,0,0,-2,null,-1,-2,-1,-3,-10,null,-5,-1,-1,-7,0,0,-3,-2,-1,-1,-5,0,-1,-2,-3,-2,-1,null,-3,null,-1,0,0,-3,-3,-5,1,-1,-1,-1,-2,0,-1,0,-1,2],[0,null,0,1,0,0,1,0,1,0,0,1,0,0,0,0,1,0,0,0,0,0,0,0,0,0,1,0,0,0,0,0,1,0,0,0,1,0,1,0,null,0,null,1,0,0,null,0,1,1,1,1,0,null,1,0,1,null,0,0,0,null,0,0,0,0,0,1,1,0,0,0,1,1,0,0,1,0,null,0,0,0,1,0,0,1,0,0,0,0,0,1,0,0,0,0,1,1,1,null,1,0,1,0,0,1,0,0,null,null,0,0,1,null,0,0,0,0,0,1,1,1,0,1,null,0,0,0,0,null,1,1,0,null,0,0,0,0,0,0,0,0,0,0,0,0,null,1,1,0,0,1,0,0,0,0,0,0,0,null,0,0,0,0,1,null,1,0,0,0,0,0,1,0,0,0,1,0,0,1,1,0,0,null,1,null,0,0,0,1,0,1,0,0,0,0,1,0,0,0,0,0],[2,null,5,0,1,2,0,10,0,4,2,0,4,1,4,5,0,4,3,4,1,10,2,1,3,6,0,2,3,2,2,2,0,4,3,2,0,2,0,3,null,1,null,0,4,2,2,2,0,0,0,0,2,null,0,3,0,null,2,1,4,null,3,4,8,1,1,0,0,2,3,3,0,0,4,6,0,4,null,3,2,3,0,4,5,0,2,4,1,2,2,0,1,2,3,4,0,0,0,null,0,2,0,1,3,0,3,1,1,3,4,5,0,0,5,3,2,2,6,0,0,0,4,0,0,2,3,3,2,null,0,0,2,null,2,1,1,2,2,2,2,4,2,3,1,6,null,0,0,2,1,0,4,4,1,5,1,3,2,7,3,2,3,5,0,null,0,3,3,3,4,3,0,3,3,3,0,3,3,0,0,1,2,3,0,null,1,4,5,0,2,0,5,5,1,1,0,4,5,3,4,10],[null,null,0,-4,-1,-1,-5,0,-5,0,0,-2,1,-1,-1,0,-6,0,0,0,-2,0,-2,0,0,-1,-6,0,0,0,0,-2,-2,0,0,-1,-2,0,-4,-2,null,-2,null,-5,0,0,-1,-2,-4,-4,-3,-3,-2,null,-2,0,-2,null,0,-1,-1,null,-1,0,0,-2,-4,-2,-3,-3,0,-2,-4,-2,-1,0,-2,-1,null,-2,0,-1,-3,0,0,-5,-2,0,-1,-1,-1,-1,-1,-1,0,-4,-1,-4,-2,null,-2,-3,-7,-3,-3,-2,0,-1,-1,1,0,0,-2,-3,-1,-2,-4,-3,0,-3,-3,-3,-1,-3,-6,0,0,0,-1,null,-3,-2,-2,null,-2,-3,-2,-1,-1,-2,0,0,-1,-2,-2,1,null,-3,-5,1,-2,-5,-4,-1,-2,0,0,0,-2,-2,-1,-2,-1,-3,-10,null,-5,-1,-1,-7,0,0,-3,-2,-1,-1,-5,0,-1,-2,-3,-2,-1,-4,-3,null,-1,0,0,-3,-3,-5,1,-1,-1,-1,-2,0,-1,0,-1,2],[0,null,0,1,1,1,1,0,1,0,0,1,0,1,1,0,1,0,0,0,1,0,1,0,0,1,1,0,0,0,0,1,1,0,0,1,1,0,1,1,null,1,null,1,0,0,1,1,1,1,1,1,1,null,1,0,1,null,0,1,1,null,1,0,0,1,1,1,1,1,0,1,1,1,1,0,1,1,null,1,0,1,1,0,0,1,1,0,1,1,1,1,1,1,0,1,1,1,1,null,1,1,1,1,1,1,0,1,1,0,0,0,1,1,1,1,1,1,0,1,1,1,1,1,1,0,0,0,1,null,1,1,1,null,1,1,1,1,1,1,0,0,1,1,1,0,null,1,1,0,1,1,1,1,1,0,0,0,1,1,1,1,1,1,1,null,1,1,1,1,0,0,1,1,1,1,1,0,1,1,1,1,1,1,1,null,1,0,0,1,1,1,0,1,1,1,1,0,1,0,1,0],[1,0,1,1,1,1,1,1,1,1,1,1,1,1,1,1,1,1,1,1,1,1,1,1,1,1,1,1,1,1,1,1,1,1,1,1,1,1,1,1,0,1,0,1,1,1,1,1,1,1,1,1,1,0,1,1,1,0,1,1,1,0,1,1,1,1,1,1,1,1,1,1,1,1,1,1,1,1,0,1,1,1,1,1,1,1,1,1,1,1,1,1,1,1,1,1,1,1,1,0,1,1,1,1,1,1,1,1,1,1,1,1,1,1,1,1,1,1,1,1,1,1,1,1,1,1,1,1,1,0,1,1,1,0,1,1,1,1,1,1,1,1,1,1,1,1,0,1,1,1,1,1,1,1,1,1,1,1,1,1,1,1,1,1,1,0,1,1,1,1,1,1,1,1,1,1,1,1,1,1,1,1,1,1,1,0,1,1,1,1,1,1,1,1,1,1,1,1,1,1,1,1],[0,null,0,1,0,0,1,0,1,0,0,1,0,0,0,0,1,0,0,0,0,0,0,0,0,0,1,0,0,0,0,0,1,0,0,0,1,0,1,0,null,0,null,1,0,0,0,0,1,1,1,1,0,null,1,0,1,null,0,0,0,null,0,0,0,0,0,1,1,0,0,0,1,1,0,0,1,0,null,0,0,0,1,0,0,1,0,0,0,0,0,1,0,0,0,0,1,1,1,null,1,0,1,0,0,1,0,0,0,0,0,0,1,1,0,0,0,0,0,1,1,1,0,1,1,0,0,0,0,null,1,1,0,null,0,0,0,0,0,0,0,0,0,0,0,0,null,1,1,0,0,1,0,0,0,0,0,0,0,0,0,0,0,0,1,null,1,0,0,0,0,0,1,0,0,0,1,0,0,1,1,0,0,0,1,null,0,0,0,1,0,1,0,0,0,0,1,0,0,0,0,0]],"container":"<table class=\"display\">\n  <thead>\n    <tr>\n      <th> <\/th>\n      <th>id<\/th>\n      <th>group<\/th>\n      <th>center<\/th>\n      <th>gender<\/th>\n      <th>smoking_history<\/th>\n      <th>no_of_corns<\/th>\n      <th>age<\/th>\n      <th>pain_baseline<\/th>\n      <th>eq5d_baseline<\/th>\n      <th>eq5d_VAS_baseline<\/th>\n      <th>index_corn_site<\/th>\n      <th>cornsize_base<\/th>\n      <th>cornsize_3<\/th>\n      <th>cornsize_change<\/th>\n      <th>cornresolved<\/th>\n      <th>cornsize_imp3<\/th>\n      <th>cornsize_change_imp<\/th>\n      <th>healed<\/th>\n      <th>healedknown<\/th>\n      <th>complete_healed<\/th>\n    <\/tr>\n  <\/thead>\n<\/table>","options":{"deferRender":false,"dom":"t","columnDefs":[{"className":"dt-center","targets":5},{"className":"dt-right","targets":[1,6,7,8,9,10,11,12,13,14,15,16,17,18,19,20]},{"orderable":false,"targets":0}],"scrollY":202,"scroller":true,"scrollX":true,"pageLength":5,"order":[],"autoWidth":false,"orderClasses":false,"lengthMenu":[5,10,25,50,100]}},"evals":[],"jsHooks":[]}</script>
 </div>
 </div>
 <p>&nbsp;</p>
@@ -992,7 +992,8 @@ Warning
 <p>In the RCT by <span class="citation" data-cites="farndon2013">Farndon et al. (<a href="references.html#ref-farndon2013" role="doc-biblioref">2013</a>)</span>, the baseline size of the corn (as its widest diameter in mm) was measured by a podiatrist (foot specialist). Consider the following 16 baseline corn sizes selected from the patients:</p>
 <p>2, 2, 6, 3, 4, 2, 2, 5, 3, 4, 1, 2, 6, 3, 10, 3</p>
 <p>&nbsp;</p>
-<p>The sum of the 16 observations is: <span class="math inline">\((2 + 2 + 6 + 3 + 4 + 2 + 2 + 5 + 3 + 4 + 1 + 2 + 6 + 3 + 10 + 3)\)</span> = 58</p>
+<p>The sum of the 16 observations is:</p>
+<p><span class="math inline">\(2 + 2 + 6 + 3 + 4 + 2 + 2 + 5 + 3 + 4 + 1 + 2 + 6 + 3 + 10 + 3\)</span> = 58</p>
 <p>&nbsp;</p>
 <p>Thus, the arithmetic mean is:</p>
 <p><span class="math inline">\(\bar{x}\)</span> = 58/16 = 3.625 mm or 3.6 mm. It is usual to report one more decimal place for the mean than the data recorded.</p>
@@ -1029,11 +1030,11 @@ Warning
 </div>
 <p>&nbsp;</p>
 <p><strong>B. Median</strong></p>
-<p>The <strong>sample median</strong> is an alternative measure of location, which is less sensitive to outliers. For observed values <span class="math inline">\(x_1, x_2,...,x_{n-1}, x_n\)</span> the median is calculated by first sorting the observed values (i.e., arranging them in an ascending/descending order) and selecting the middle one. If the sample size <em>n</em> is <strong>odd</strong>, the median is the number at the middle of the ordered observations. If the sample size is <strong>even</strong>, the median is the average of the two middle numbers.</p>
-<p>Therefore, the sample mean of <em>n</em> observations is:</p>
+<p>The <strong>sample median</strong>, <em>md</em>, is an alternative measure of location, which is less sensitive to outliers. For observed values <span class="math inline">\(x_1, x_2,...,x_{n-1}, x_n\)</span> the median is calculated by first sorting the observed values (i.e., arranging them in an ascending/descending order) and selecting the middle one. If the sample size <em>n</em> is <strong>odd</strong>, the median is the number at the middle of the ordered observations. If the sample size is <strong>even</strong>, the median is the average of the two middle numbers.</p>
+<p>Therefore, the sample median, <em>md</em>, of <em>n</em> observations is:</p>
 <ul>
-<li><p>the <span class="math inline">\(\frac{n+1}{2}\)</span>th ordered value, <span class="math inline">\(x_{\frac{n+1}{2}}\)</span>, if <em>n</em> is odd.</p></li>
-<li><p>the average of the <span class="math inline">\(\frac{n}{2}\)</span>th and <span class="math inline">\(\frac{n+1}{2}\)</span>th ordered values, <span class="math inline">\(\frac{1}{2}(x_{\frac{n}{2}}+x_{\frac{n+1}{2}})\)</span>, if <em>n</em> is even.</p></li>
+<li><p>the <span class="math inline">\(\frac{n+1}{2}\)</span>th ordered value, <span class="math inline">\(md=x_{\frac{n+1}{2}}\)</span>, if <em>n</em> is odd.</p></li>
+<li><p>the average of the <span class="math inline">\(\frac{n}{2}\)</span>th and <span class="math inline">\(\frac{n+1}{2}\)</span>th ordered values, <span class="math inline">\(md=\frac{1}{2}(x_{\frac{n}{2}}+x_{\frac{n+1}{2}})\)</span>, if <em>n</em> is even.</p></li>
 </ul>
 <div class="callout-note callout callout-style-default no-icon callout-captioned">
 <div class="callout-header d-flex align-content-center">
@@ -1388,20 +1389,20 @@ Tip
 </section></section><section id="displaying-numerical-data" class="level2" data-number="1.7"><h2 data-number="1.7" class="anchored" data-anchor-id="displaying-numerical-data">
 <span class="header-section-number">1.7</span> Displaying Numerical Data</h2>
 <p>The best way for examining the distribution of numerical data is to generate an appropriate graph.</p>
-<p><strong>A. Histogram</strong></p>
+<p><strong>A. Histogram and density plot</strong></p>
 <p>The most common way of depicting a frequency distribution of a continuous variable is with a histogram.</p>
-<p>A histogram is a plot that depicts the distribution of a numeric variable’s values as a series of bars without space between them. Each bar typically covers a range of numeric values called a bin or class; a bar’s height indicates the frequency of observations with a value within the corresponding bin.</p>
-<p><a href="#fig-histo1">Figure&nbsp;<span>1.8</span></a> shows the histogram for the age distribution of the participants in <span class="citation" data-cites="farndon2013">Farndon et al. (<a href="references.html#ref-farndon2013" role="doc-biblioref">2013</a>)</span> study. The vertical scale shows frequency, the number of observations in each interval.</p>
+<p>A histogram (<a href="#fig-histo1">Figure&nbsp;<span>1.8</span></a> a) is a plot that depicts the distribution of a numeric variable’s values as a series of bars without space between them. Each bar typically covers a range of numeric values called a bin or class; a bar’s height indicates the frequency of observations with a value within the corresponding bin. A density plot (<a href="#fig-histo1">Figure&nbsp;<span>1.8</span></a> b) is a smoothed, continuous version of a histogram estimated from the data.In density plot the total area under the curve integrates to one.</p>
+<p><a href="#fig-histo1">Figure&nbsp;<span>1.8</span></a> shows the distribution of age for the participants in <span class="citation" data-cites="farndon2013">Farndon et al. (<a href="references.html#ref-farndon2013" role="doc-biblioref">2013</a>)</span> study. The vertical scale shows (a) frequency (histogram) or (b) probability density (density plot).</p>
 <div class="cell">
 <div class="cell-output-display">
 <div id="fig-histo1" class="quarto-figure quarto-figure-center anchored">
-<figure class="figure"><p><img src="introduction_files/figure-html/fig-histo1-1.png" class="img-fluid figure-img" width="336"></p>
-<p></p><figcaption class="figure-caption">Figure 1.8: Histogram of age.</figcaption><p></p>
+<figure class="figure"><p><img src="introduction_files/figure-html/fig-histo1-1.png" class="img-fluid figure-img" width="720"></p>
+<p></p><figcaption class="figure-caption">Figure 1.8: Histogram of age of the participants in <span class="citation" data-cites="farndon2013">Farndon et al. (<a href="references.html#ref-farndon2013" role="doc-biblioref">2013</a>)</span> study (a) histohram (b) density plot.</figcaption><p></p>
 </figure>
 </div>
 </div>
 </div>
-<p>A histogram gives information about:</p>
+<p>A histogram (or density plot) gives information about:</p>
 <ul>
 <li><p>How the data are distributed (Fig. 2.6): (a) left-skewed, (b) symmetric (e.g., normal distribution), (c) right-skewed and if there are any outliers.</p></li>
 <li><p>The amount of variability in the data.</p></li>
